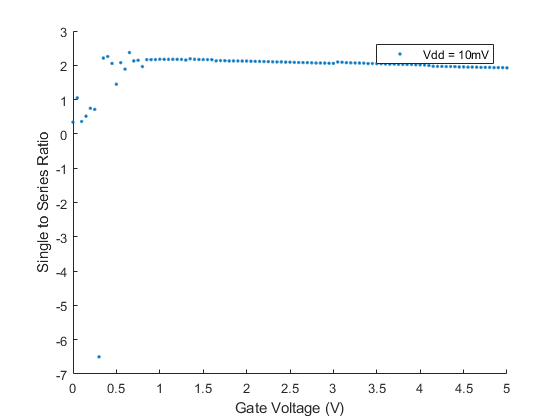
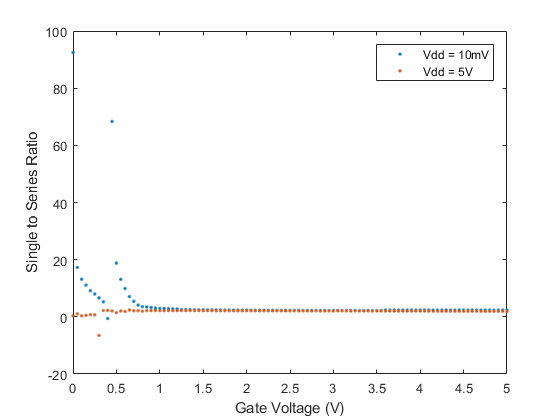
lab six plots

diff --git a/Lab 6/lab6_jamie.m b/Lab 6/lab6_jamie.m
@@ -1,9 +1,10 @@
 load('lab6data.mat')
 %% Experiment 1
+load('exp1Data.mat')
 Ut = 0.025;
 epsilon = 5e-4;
 Isata = -Ic1a;
-[Isa, VTa, kappaa]=ekvfit(Vg1a, Isata, epsilon);
+% [Isa, VTa, kappaa]=ekvfit(Vg1a, Isata, epsilon);
 % [Isb, VTb, kappab]=ekvfit(Vg1b, -Ic1b, epsilon);
 % [Isc, VTc, kappac]=ekvfit(Vg1c, -Ic1c, epsilon);
 % [Isd, VTd, kappad]=ekvfit(Vg1c, -Ic1d, epsilon);
@@ -46,11 +47,12 @@ xlabel('Mean Channel Current (A)')
 ylabel('Percent Difference from Mean')
 legend('Q1','Q2','Q3','Q4')
 %% Experiment 2
+load('exp2seriesData.mat')
 figure
 semilogy(Vg210mV,Ic210mV,'.')
 hold on
 semilogy(Vg210mVp,Ic210mVp,'.')
-semilogy(Vg210mVs,Ic2dd,'.') % we don't have the data for this one
+semilogy(Vgs,Ics,'.') % we don't have the data for this one
 semilogy(Vg25V,Ic25V,'.')
 semilogy(Vg25Vp,Ic25Vp,'.')
 semilogy(Vg25Vs,Ic25Vs,'.')
@@ -74,10 +76,10 @@ ylabel('Parallel to Single Ratio')
 legend('Vd = 10mV','Vd = 5V')
 %%
 
-% ratio_sc10mV = Ic210mV ./ Ic210mVs;
+ratio_sc10mV = Ic210mV ./ Ics;
 ratio_sc5V = Ic25V ./ Ic25Vs;
-
-% plot(Vg210mV,ratio_sc10mV)
+clf
+plot(Vgs,ratio_sc10mV,'.')
 hold on
 plot(Vg25V,ratio_sc5V,'.')
 hold off
